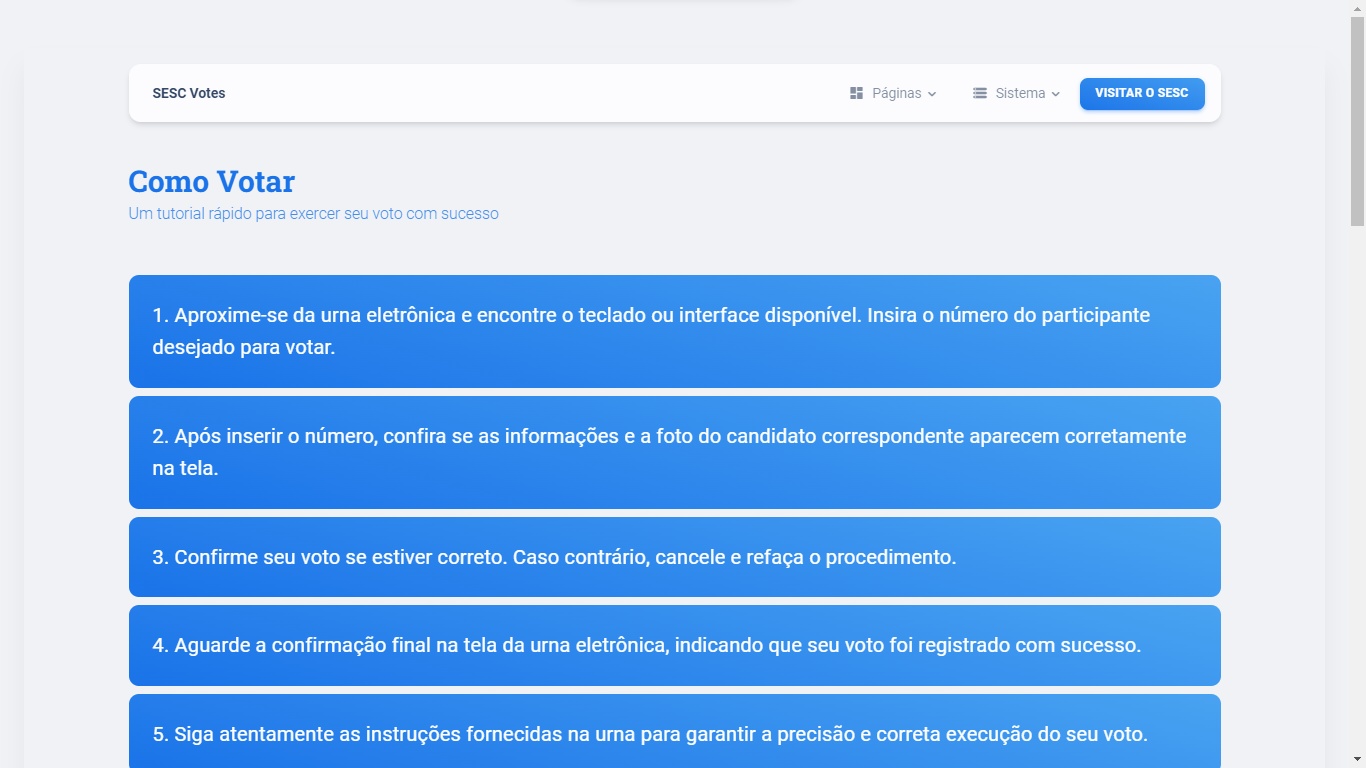
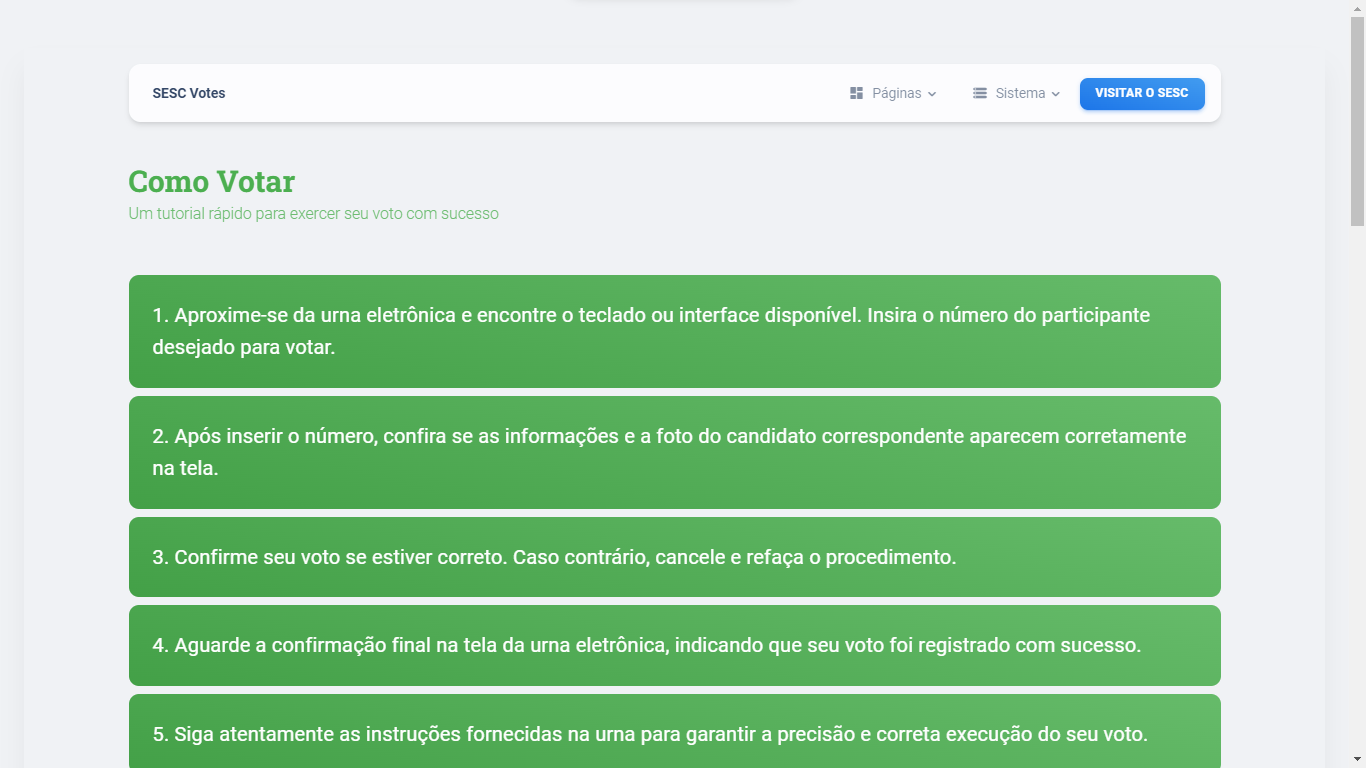
vote and teach update

diff --git a/src/pages/Presentation/sections/DesignBlocks.js b/src/pages/Presentation/sections/DesignBlocks.js
@@ -36,10 +36,10 @@ function DesignBlocks() {
     <Grid container spacing={3} sx={{ mb: 10 }} key={title}>
       <Grid item xs={12} lg={3}>
         <MKBox position="sticky" top="100px" pb={{ xs: 2, lg: 6 }}>
-          <MKTypography variant="h3" fontWeight="bold" mb={1}>
+          <MKTypography variant="h3" color="white" fontWeight="bold" mb={1}>
             {title}
           </MKTypography>
-          <MKTypography variant="body2" fontWeight="regular" color="secondary" mb={1} pr={2}>
+          <MKTypography variant="body2" color="white" fontWeight="regular" mb={1} pr={2}>
             {description}
           </MKTypography>
         </MKBox>
@@ -49,7 +49,7 @@ function DesignBlocks() {
           {items.map(({ image, name, count, route, pro }) => (
             <Grid item xs={12} md={4} sx={{ mb: 2 }} key={name}>
               <Link to={pro ? "/" : route}>
-                <ExampleCard image={image} name={name} count={count} pro={pro} />
+                <ExampleCard image={image} name={name} count={count} pro={pro} color="white" />
               </Link>
             </Grid>
           ))}
@@ -59,7 +59,15 @@ function DesignBlocks() {
   ));
 
   return (
-    <MKBox component="section" my={2} py={6}>
+    <MKBox
+      component="section"
+      variant="gradient"
+      bgColor="dark"
+      position="relative"
+      py={6}
+      px={{ xs: 2, lg: 0 }}
+      mx={-2}
+    >
       <Container>
         <Grid
           container
@@ -72,15 +80,15 @@ function DesignBlocks() {
         >
           <MKBadge
             variant="contained"
-            color="info"
+            color="white"
             badgeContent="Usando a Plataforma"
             container
             sx={{ mb: 2 }}
           />
-          <MKTypography variant="h2" fontWeight="bold">
+          <MKTypography variant="h2" color="white" fontWeight="bold">
             Hora da Ação!
           </MKTypography>
-          <MKTypography variant="body1" color="text">
+          <MKTypography variant="body1" color="white">
             Ótimo, agora que você já conhece todos os benefícios em termos de tempo, dinheiro e
             eficiência, vamos partir para a aplicação!
           </MKTypography>

diff --git a/src/pages/LandingPages/docs/Vote/sections/Voting.js b/src/pages/LandingPages/docs/Vote/sections/Voting.js
@@ -34,10 +34,10 @@ function Voting() {
       <Container>
         <Grid container>
           <Grid item xs={12} md={8} sx={{ mb: 6 }}>
-            <MKTypography variant="h3" color="info">
+            <MKTypography variant="h3" color="success">
               Como Votar
             </MKTypography>
-            <MKTypography variant="body2" color="info" opacity={0.8}>
+            <MKTypography variant="body2" color="success" opacity={0.8}>
               Um tutorial rápido para exercer seu voto com sucesso
             </MKTypography>
           </Grid>
@@ -51,7 +51,7 @@ function Voting() {
               p={3}
               variant="gradient"
               borderRadius="10px"
-              bgColor="info"
+              bgColor="success"
             >
               <p>
                 1. Aproxime-se da urna eletrônica e encontre o teclado ou interface disponível.
@@ -65,7 +65,7 @@ function Voting() {
               p={3}
               variant="gradient"
               borderRadius="10px"
-              bgColor="info"
+              bgColor="success"
             >
               <p>
                 2. Após inserir o número, confira se as informações e a foto do candidato
@@ -79,7 +79,7 @@ function Voting() {
               p={3}
               variant="gradient"
               borderRadius="10px"
-              bgColor="info"
+              bgColor="success"
             >
               <p>
                 3. Confirme seu voto se estiver correto. Caso contrário, cancele e refaça o
@@ -93,7 +93,7 @@ function Voting() {
               p={3}
               variant="gradient"
               borderRadius="10px"
-              bgColor="info"
+              bgColor="success"
             >
               <p>
                 4. Aguarde a confirmação final na tela da urna eletrônica, indicando que seu voto
@@ -107,7 +107,7 @@ function Voting() {
               p={3}
               variant="gradient"
               borderRadius="10px"
-              bgColor="info"
+              bgColor="success"
             >
               <p>
                 5. Siga atentamente as instruções fornecidas na urna para garantir a precisão e

diff --git a/src/pages/Presentation/components/ExampleCard/index.js b/src/pages/Presentation/components/ExampleCard/index.js
@@ -91,7 +91,7 @@ function ExampleCard({ image, name, count, pro, ...rest }) {
       {name || count > 0 ? (
         <MKBox mt={1} ml={1} lineHeight={1}>
           {name && (
-            <MKTypography variant="h6" fontWeight="bold">
+            <MKTypography variant="h6" color="light" fontWeight="bold">
               {name}
             </MKTypography>
           )}

diff --git a/src/pages/Presentation/sections/data/designBlocksData.js b/src/pages/Presentation/sections/data/designBlocksData.js
@@ -49,6 +49,11 @@ export default [
         name: "Votação",
         route: "/docs/vote",
       },
+      {
+        image: `${imagesPrefix}/vote.png`,
+        name: "Para Professores",
+        route: "/docs/teacher",
+      },
     ],
   },
   {
